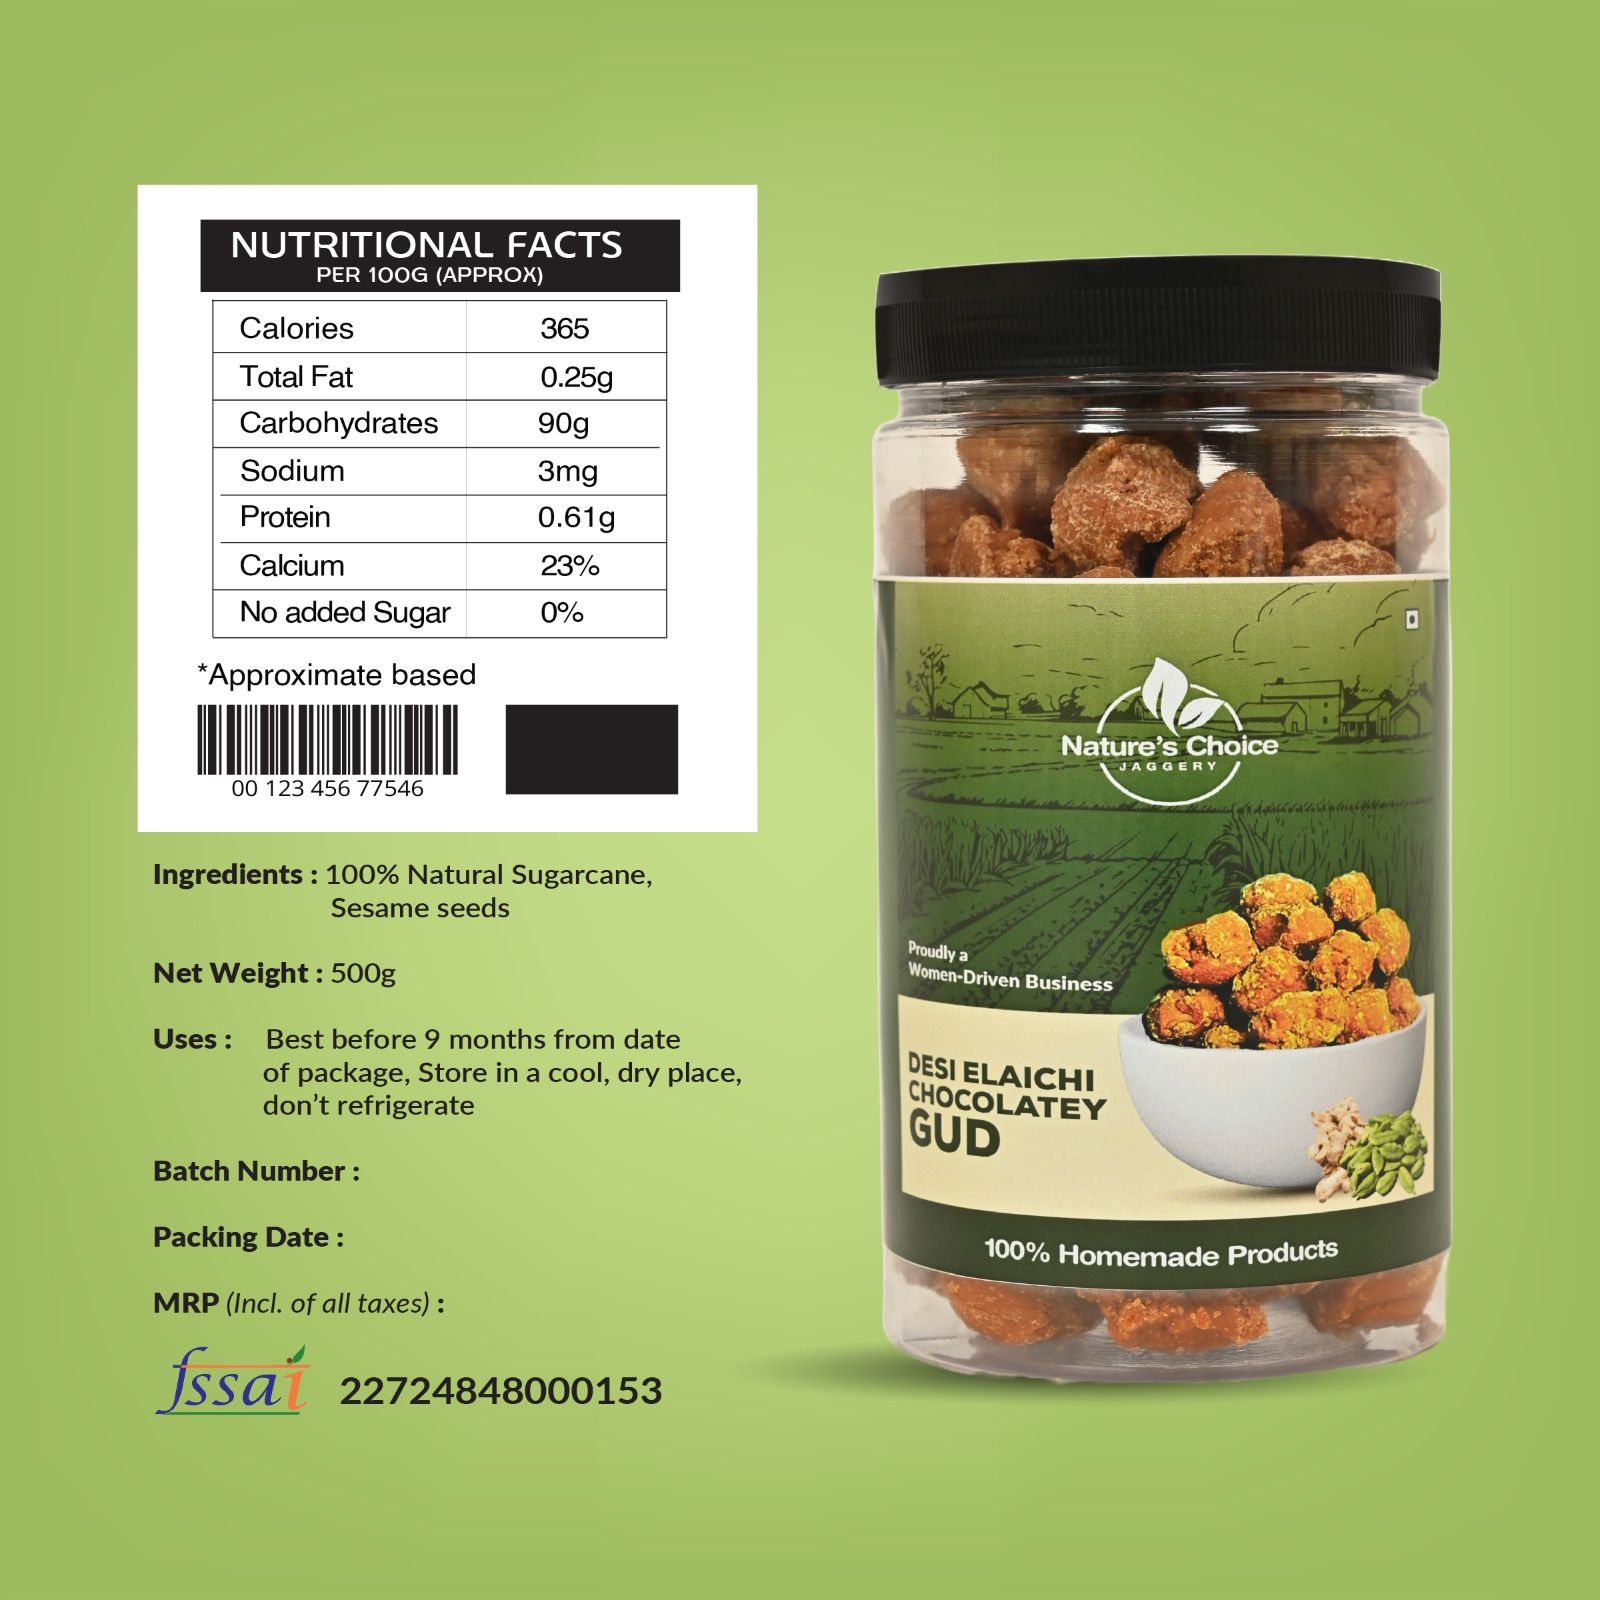
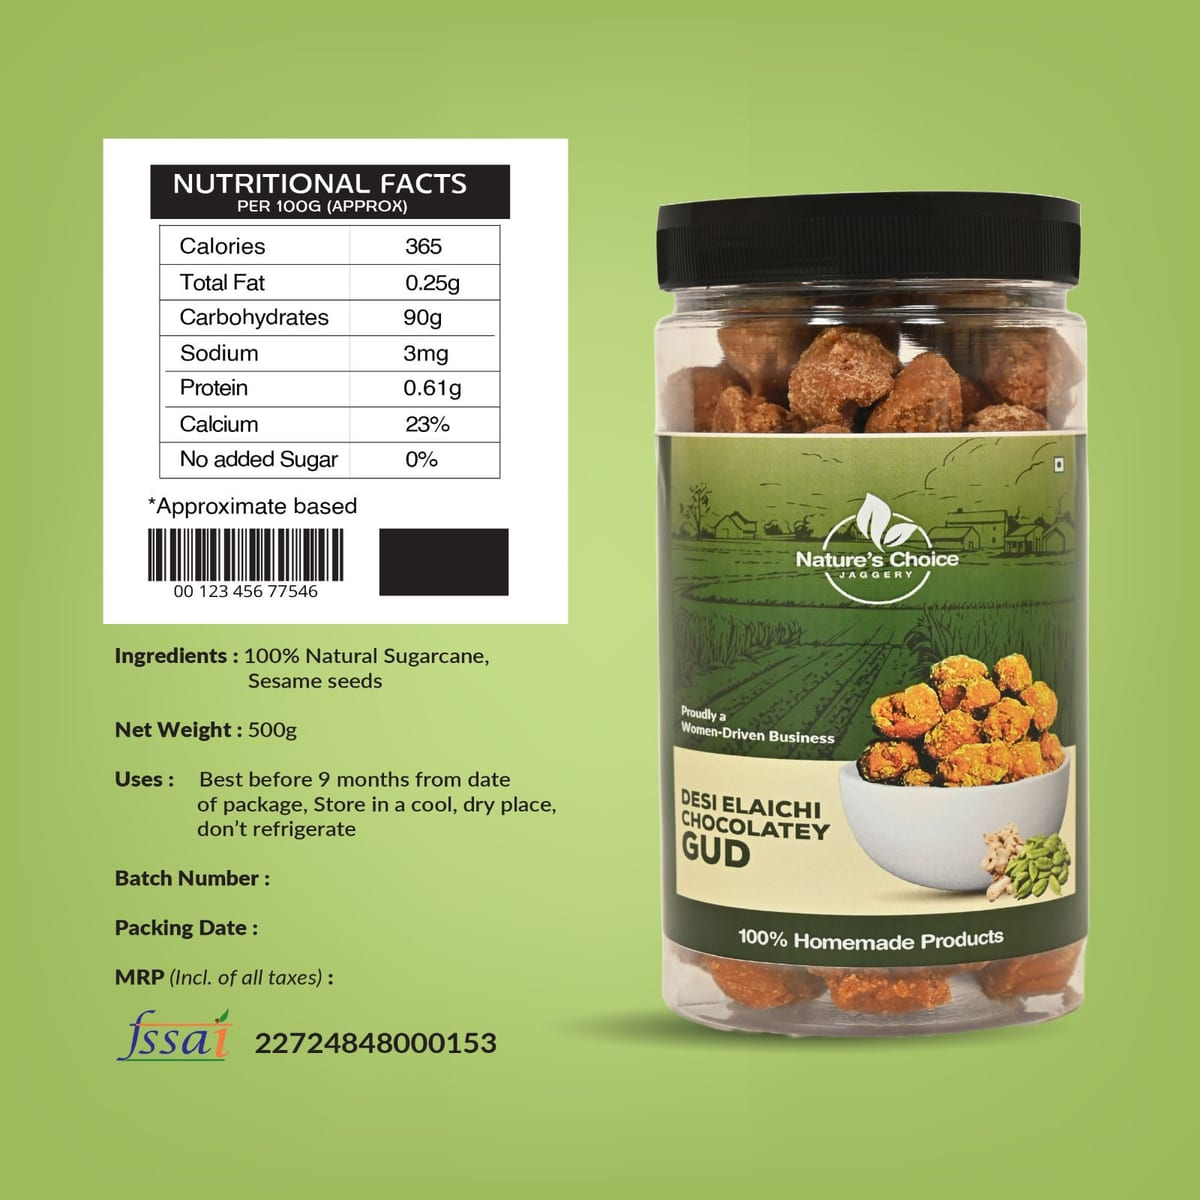
Enlarge founder and PDP photos, speed up image delivery
- Founder portraits doubled to 192px and converted from multi-megabyte
  PNG to WebP (founder 1920 KB -> 66 KB, cofounder 2286 KB -> 63 KB).
- Product detail gallery main image enlarged ~60% to 458px; thumbnails
  follow at 64px and the sizes hint matches.
- Re-encoded the oversized source photos: the til set shipped as
  4000x4000 and the elaichi set as 1600x1600, all capped at 1200px.
  Total public image weight drops from 9079 KB to 2150 KB.
- Gave the About page Our Story block a framed warm-cream background.
- Ignore stray tmp-*.log / tmp-*.txt scratch files.

Changed region(s): [[0.2467, 0.4625, 0.2775, 0.4933], [0.2158, 0.6475, 0.2467, 0.6783], [0.1542, 0.4625, 0.185, 0.4933]]

diff --git a/src/components/founders.tsx b/src/components/founders.tsx
@@ -5,7 +5,7 @@ const founders = [
     name: "Ruby Gupta",
     role: "Founder, Nature's Choice Jaggery",
     initials: "RG",
-    image: "/images/founder.PNG",
+    image: "/images/founder.webp",
     paragraphs: [
       "Ruby started this journey with a simple belief — traditional Indian flavours can have a place in the modern world too.",
       "Her vision was to create something familiar, but different. Something that could make people look at jaggery in a completely new way.",
@@ -17,7 +17,7 @@ const founders = [
     name: "Vijay Gupta",
     role: "Co-Founder, Nature's Choice Jaggery",
     initials: "VG",
-    image: "/images/cofounder.PNG",
+    image: "/images/cofounder.webp",
     paragraphs: [
       "For Vijay, this journey has been about turning an idea into something real — from developing the product to packaging it, taking it to customers, and building the brand step by step.",
       "There’s been a lot to learn along the way, but one thing has stayed constant — build something people can genuinely trust and enjoy.",
@@ -41,13 +41,13 @@ export default function Founders() {
             key={founder.name}
             className="flex flex-col rounded-2xl border border-black/5 bg-[var(--white)] p-7 shadow-sm"
           >
-            <div className="flex items-center gap-4">
-              <span className="relative h-24 w-24 shrink-0 overflow-hidden rounded-2xl border border-black/5 bg-[var(--warm-cream)]">
+            <div className="flex items-center gap-5">
+              <span className="relative h-48 w-48 shrink-0 overflow-hidden rounded-2xl border border-black/5 bg-[var(--warm-cream)]">
                 <Image
                   src={founder.image}
                   alt={founder.name}
                   fill
-                  sizes="96px"
+                  sizes="192px"
                   className="object-cover object-top"
                 />
               </span>

diff --git a/src/components/product-gallery.tsx b/src/components/product-gallery.tsx
@@ -52,7 +52,7 @@ export default function ProductGallery({
   return (
     <div className="flex flex-col gap-3">
       <div
-        className="relative mx-auto aspect-square w-full max-w-[286px] touch-pan-y overflow-hidden rounded-2xl border border-black/5 bg-[var(--warm-cream)]"
+        className="relative mx-auto aspect-square w-full max-w-[458px] touch-pan-y overflow-hidden rounded-2xl border border-black/5 bg-[var(--warm-cream)]"
         onTouchStart={onTouchStart}
         onTouchEnd={onTouchEnd}
       >
@@ -61,7 +61,7 @@ export default function ProductGallery({
           src={activeImage}
           alt={`${alt} - view ${activeIndex + 1}`}
           fill
-          sizes="(max-width: 1024px) 90vw, 286px"
+          sizes="(max-width: 1024px) 90vw, 458px"
           className="scale-100 object-cover transition-transform duration-300"
           priority
         />
@@ -80,7 +80,7 @@ export default function ProductGallery({
               onClick={() => setActiveIndex(index)}
               aria-label={`Show image ${index + 1}`}
               aria-current={index === activeIndex}
-              className={`relative aspect-square w-12 shrink-0 snap-start overflow-hidden rounded-xl border-2 bg-[var(--warm-cream)] transition-colors ${
+              className={`relative aspect-square w-16 shrink-0 snap-start overflow-hidden rounded-xl border-2 bg-[var(--warm-cream)] transition-colors ${
                 index === activeIndex
                   ? "border-[var(--ginger-terracotta)]"
                   : "border-black/5 hover:border-[var(--ginger-terracotta)]/50"

diff --git a/src/app/(shop)/about/page.tsx b/src/app/(shop)/about/page.tsx
@@ -64,8 +64,9 @@ export default async function AboutPage() {
           </h1>
         </div>
 
-        <section className="grid grid-cols-1 items-center gap-12 lg:grid-cols-2">
-          <div>
+        <section className="overflow-hidden rounded-[2rem] border border-black/5 bg-[var(--warm-cream)] p-6 shadow-[0_18px_44px_-32px_rgba(26,18,8,0.35)] sm:p-10 lg:p-12">
+          <div className="grid grid-cols-1 items-center gap-10 lg:grid-cols-2">
+            <div>
             <p className="text-xs font-medium uppercase tracking-widest text-[var(--ginger-terracotta)]">
               Our story
             </p>
@@ -127,6 +128,7 @@ export default async function AboutPage() {
               height={800}
               className="h-full w-full rounded-xl object-cover"
             />
+          </div>
           </div>
         </section>
 
